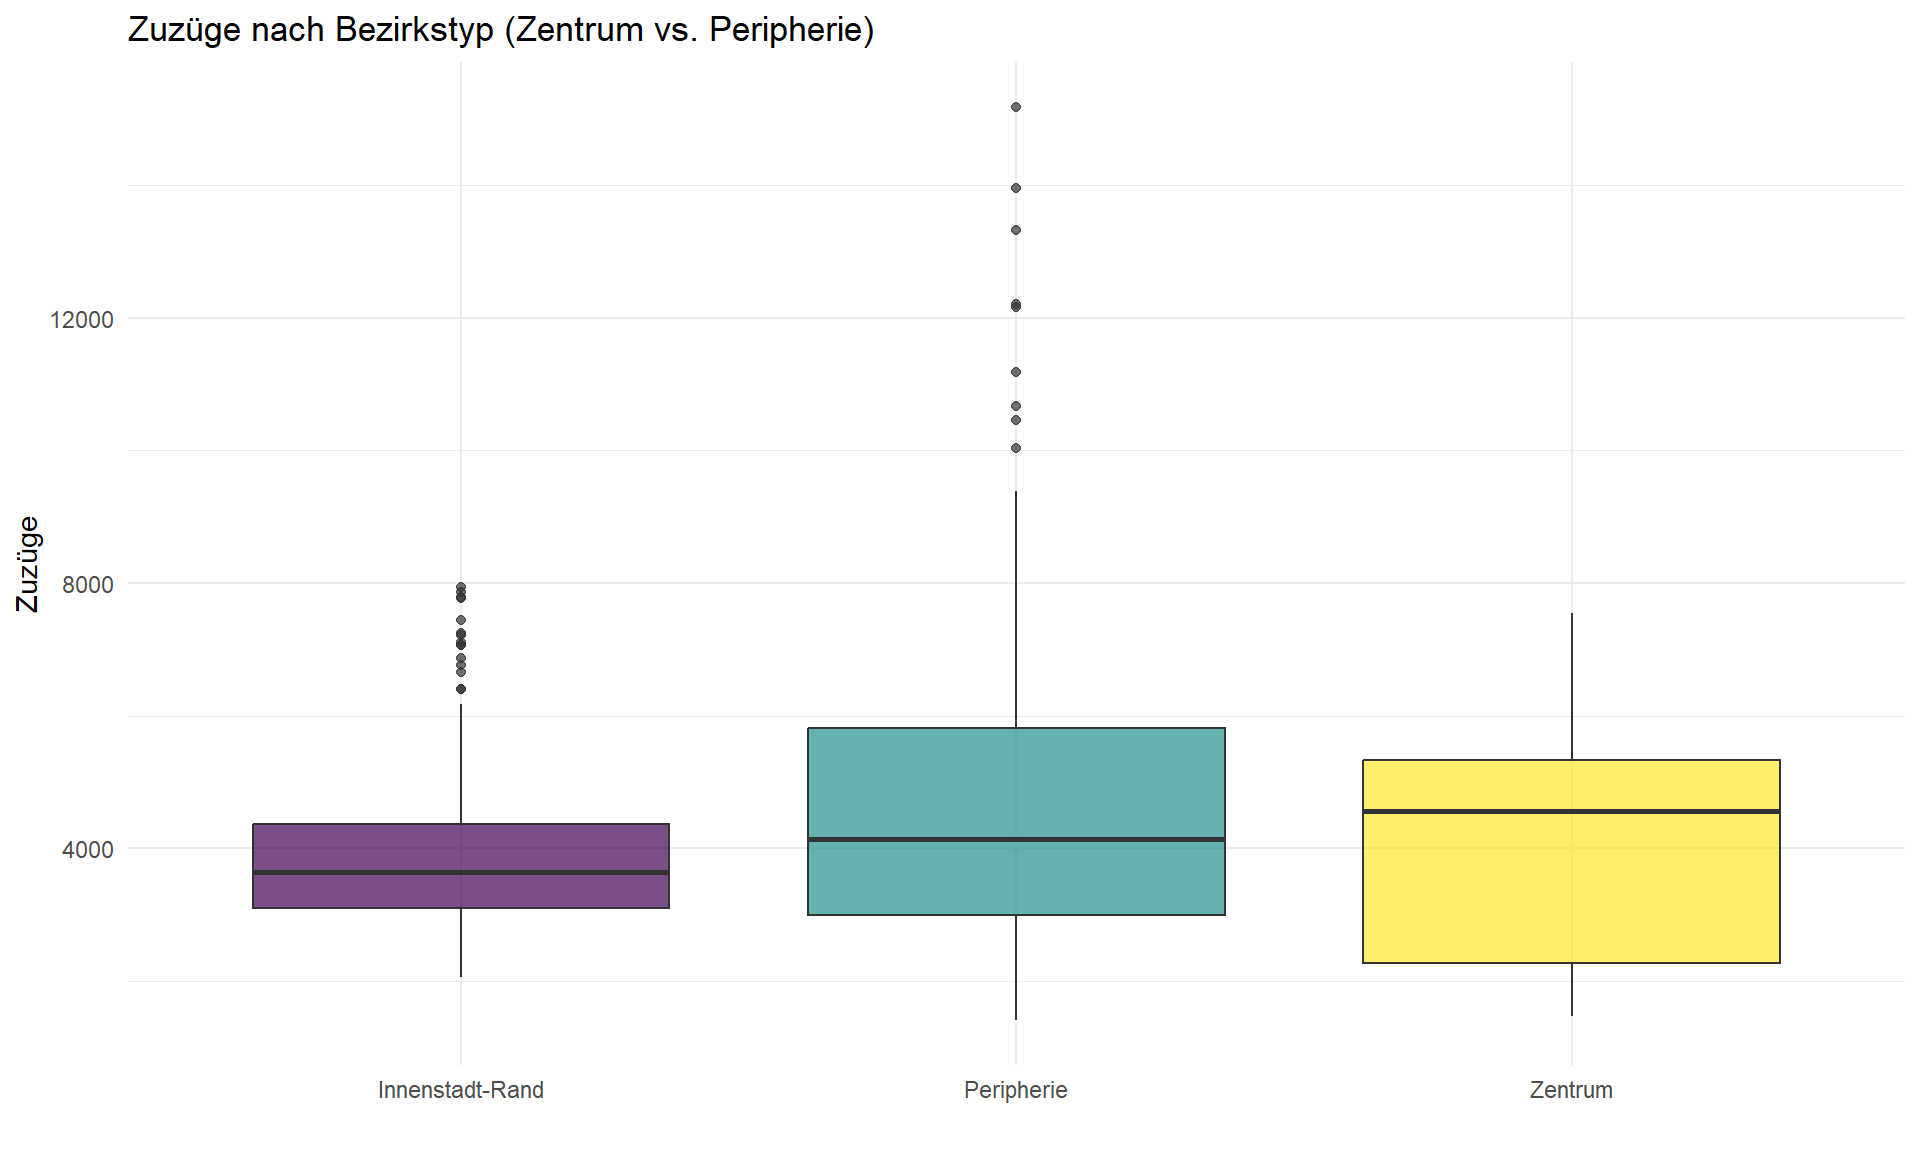
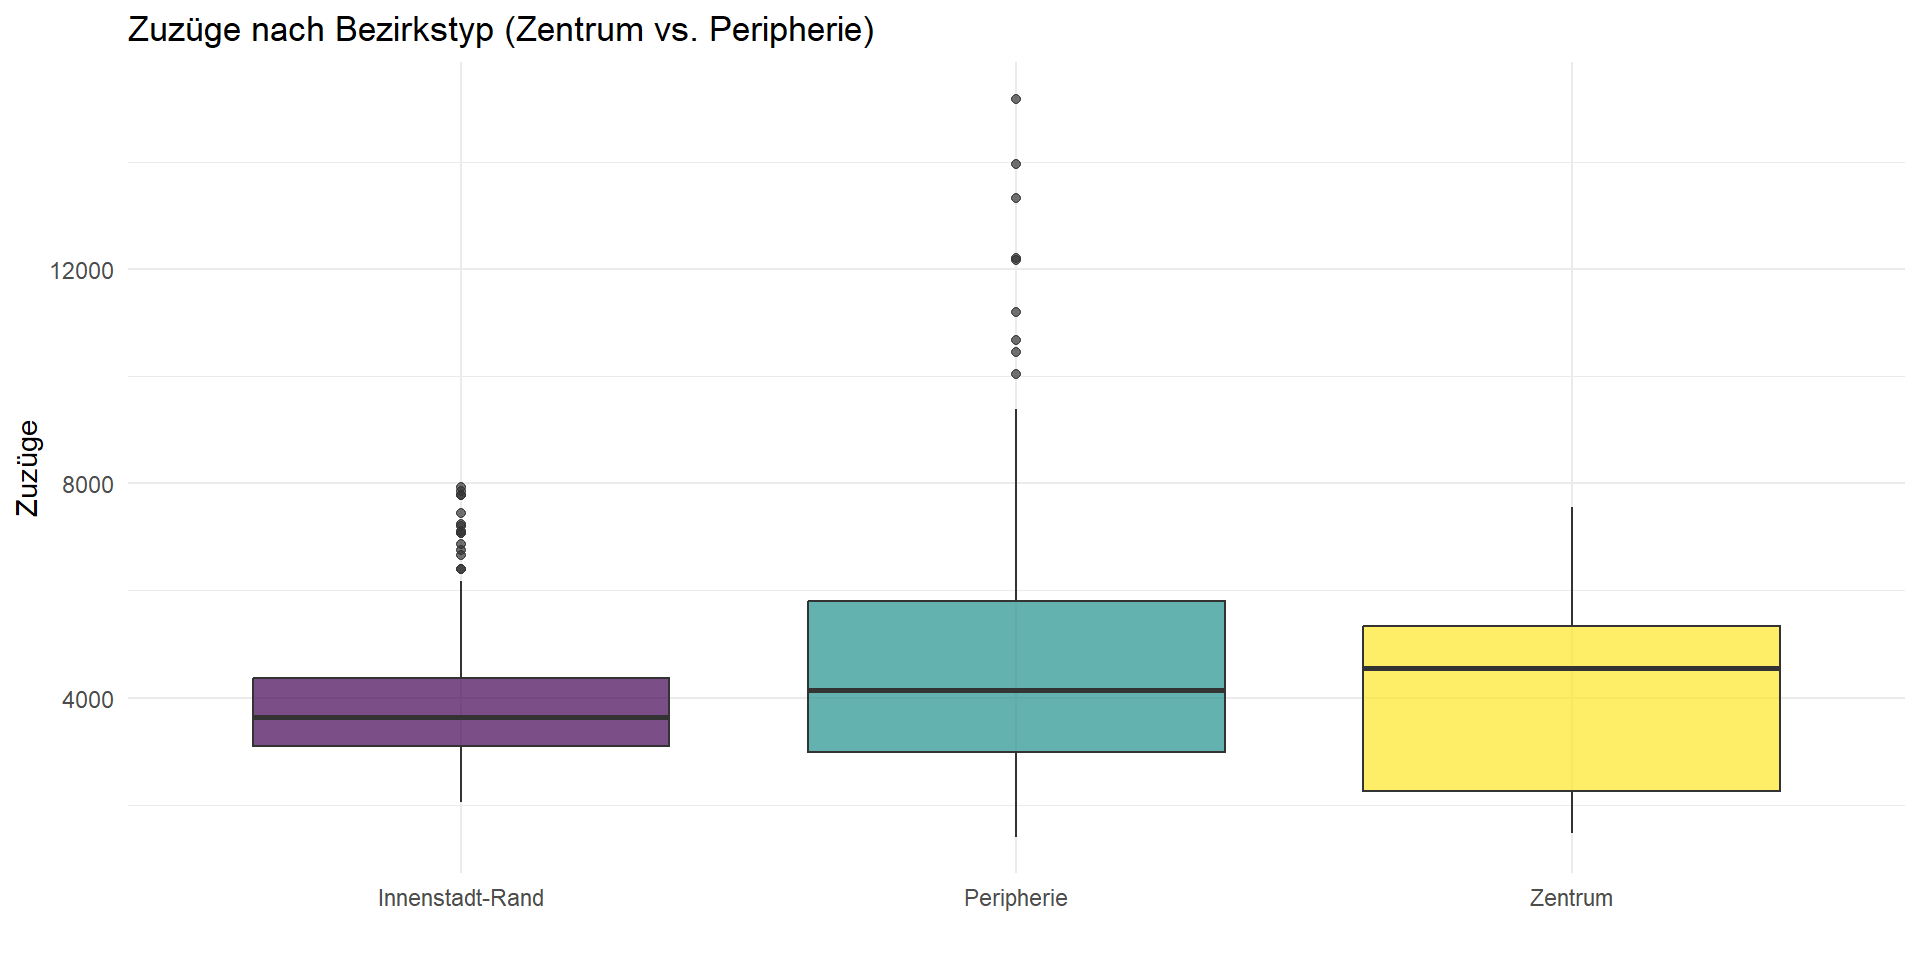
Plots von Datenüberlick

diff --git a/presentation.html b/presentation.html
@@ -218,39 +218,16 @@ Heinz Calderón, Christian Lex, Dennis Ley, Haoyang Yang
 </section>
 <section id="datenüberblick-1" class="slide level2">
 <h2>Datenüberblick</h2>
-<div class="columns">
-<div class="column">
-<div class="cell">
-<div class="cell-output-display">
-<div>
-<figure>
-<p><img data-src="presentation_files/figure-revealjs/unnamed-chunk-2-1.png" width="960"></p>
-</figure>
-</div>
-</div>
-</div>
-</div><div class="column">
-<div class="cell">
-<div class="cell-output-display">
-<div>
-<figure>
-<p><img data-src="presentation_files/figure-revealjs/unnamed-chunk-3-1.png" width="960"></p>
-</figure>
-</div>
-</div>
-</div>
-</div><div class="column">
-<div class="cell">
-<div class="cell-output-display">
-<div>
-<figure>
-<p><img data-src="presentation_files/figure-revealjs/unnamed-chunk-4-1.png" width="960"></p>
-</figure>
-</div>
-</div>
-</div>
-</div></div>
-</section>
+
+<img data-src="presentation_files/figure-revealjs/boxplot_typ-1.png" class="quarto-figure quarto-figure-center r-stretch" width="2100"></section>
+<section id="datenüberblick-2" class="slide level2">
+<h2>Datenüberblick</h2>
+
+<img data-src="presentation_files/figure-revealjs/boxplot_dichte-1.png" class="quarto-figure quarto-figure-center r-stretch" width="2100"></section>
+<section id="datenüberblick-3" class="slide level2">
+<h2>Datenüberblick</h2>
+
+<img data-src="presentation_files/figure-revealjs/boxplot_himmel-1.png" class="quarto-figure quarto-figure-center r-stretch" width="2100"></section>
 <section id="agenda-1" class="slide level2">
 <h2>Agenda</h2>
 <ol type="1">
@@ -341,7 +318,7 @@ Heinz Calderón, Christian Lex, Dennis Ley, Haoyang Yang
 </section>
 <section id="zusammenfassung-und-fazit" class="slide level2">
 <h2>Zusammenfassung und Fazit</h2>
-<p>Limitation: Nur Daten ab 2000 für die Bevölkerungsentwicklung ist gegeben</p>
+<p>Limitation: Nur Daten ab 2000 für die Bevölkerungsentwicklung ist gegeben Wechselmatrix ab 2005 und Bevölkerungsdichte ab 2002</p>
 </section>
 <section id="ausblick" class="slide level2">
 <h2>Ausblick</h2>
@@ -351,7 +328,7 @@ Heinz Calderón, Christian Lex, Dennis Ley, Haoyang Yang
 <li><p><strong>Neufreimann</strong>: 5.500 Wohnungen für 15.000 Menschen</p></li>
 <li><p><strong>Münchener Nordosten</strong>: ab 2030 neues Zukunftsquartier für bis zu 30.000 Menschen</p></li>
 </ul>
-<p><strong>Herausforderungen</strong>: Trotz dieser Bemühungen ist der Immobilienmarkt sehr angespannt. <strong>Steigende Baukosten</strong>, <strong>hohe Zinsen</strong>, <strong>komplizierte Vorschriften</strong> und <strong>Fachkräftemangel</strong> führen zu langsam Umsetzung.</p>
+<p><strong>Herausforderungen</strong>: Trotz dieser Bemühungen ist der Immobilienmarkt sehr angespannt. <strong>Steigende Baukosten</strong>, <strong>hohe Zinsen</strong>, <strong>komplizierte Vorschriften</strong> und <strong>Fachkräftemangel</strong> führen zu langsame Umsetzung.</p>
 
 </section>
     </div>
